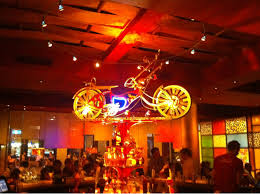
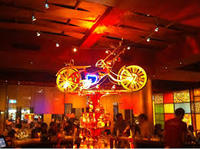
resize images, minimajick

diff --git a/app/uploaders/image_uploader.rb b/app/uploaders/image_uploader.rb
@@ -4,7 +4,7 @@ class ImageUploader < CarrierWave::Uploader::Base
 
   # Include RMagick or MiniMagick support:
   # include CarrierWave::RMagick
-  # include CarrierWave::MiniMagick
+  include CarrierWave::MiniMagick
 
   # Choose what kind of storage to use for this uploader:
   if Rails.env.production?
@@ -29,7 +29,7 @@ class ImageUploader < CarrierWave::Uploader::Base
   # end
 
   # Process files as they are uploaded:
-  # process :scale => [200, 300]
+  process :resize_to_fit => [200, 300]
   #
   # def scale(width, height)
   #   # do something
